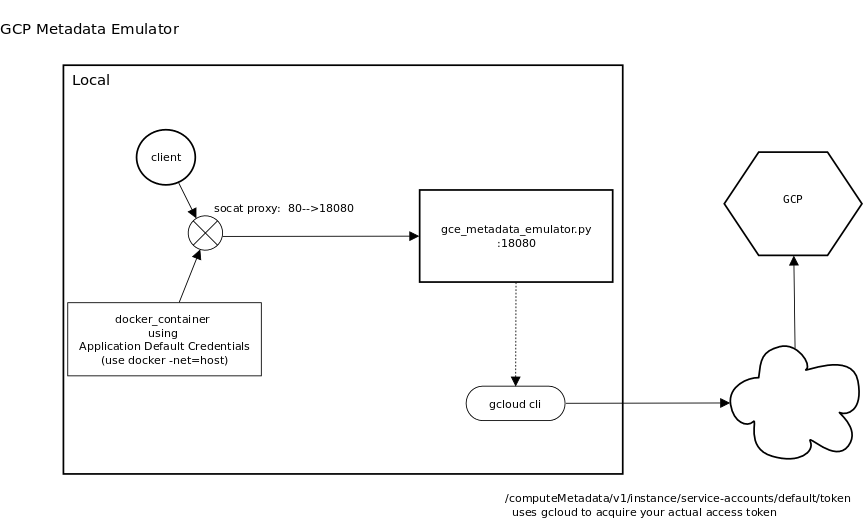
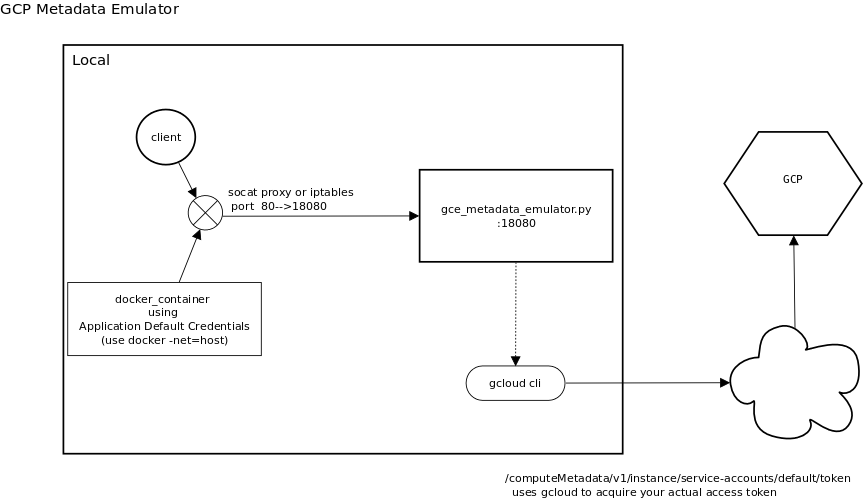
gunicorn and __getAccessTokenFromInstance()

diff --git a/gce_metadata_server.py b/gce_metadata_server.py
@@ -67,6 +67,7 @@ from time import mktime
 from datetime import datetime
 import calendar
 import urllib2
+from cStringIO import StringIO
 
 from gcloud_wrapper import GCloud
 
@@ -235,6 +236,23 @@ def __setupProjectMetadata():
         if (item['key']!='sshKeys'):
           custom_attributes[item['key']] = item['value']          
     logging.info('Enabled the following custom attributes ' + str(custom_attributes))
+
+# Optional method to acquire the access_token from an instance in your project (requires gcloud or curl installed on your GCE instance)
+# TODO: the remote ssh writes to stdout and would need to capture it.  For now, I left it as-is, unimplemented :(
+def __getAccessTokenFromInstance(instance):
+    logging.info('Getting access_token from instance ' + instance)
+
+    # if gcloud is installed remotely    
+    #token = GCloud(['--configuration', gcloud_configuraiton, 'compute','ssh', instance, 'gcloud auth print-access-token', '--format', 'json()'])
+    #logging.info('access_token: ' + str(token))
+
+    # if curl is installed remotely
+    #result = GCloud(['--configuration', gcloud_configuraiton, 'compute','ssh',instance, \
+    #  'curl -s "http://metadata.google.internal/computeMetadata/v1/instance/service-accounts/default/token" -H "Metadata-Flavor: Google"'])
+    #p = json.loads(result)
+    #token = p['access_token']
+
+    logging.info('Acquired access_token from instance ' + instance)    
 
 if __name__ == '__main__':
   app.wsgi_app = TransitMiddleWare(app.wsgi_app)

diff --git a/README.md b/README.md
@@ -46,6 +46,8 @@ sudo apt-get install socat
 ```
 sudo socat TCP4-LISTEN:80,fork TCP4:127.0.0.1:18080
 ```
+_note:_  socat is pretty much for unit testing.  For anything else, try iptables and gunicorn.
+
 or iptables
 ```
 sudo iptables -t nat -A OUTPUT -o lo -p tcp --dport 80 -j REDIRECT --to-port 18080
@@ -64,7 +66,7 @@ directly:
 ```
 python gce_metadata_server.py
 ```
-or via gunicorn
+or **preferably** via [gunicorn](http://docs.gunicorn.org/en/stable/install.html)
 ```
 gunicorn -b :18080 gce_metadata_server:app
 ```
@@ -99,13 +101,38 @@ This will allow the container to 'see' the local interface on the laptop.
 This script utilizes [gcloud_wrapper.py](gcloud_wrapper.py) which is basically a python wrapper around the actual gcloud CLI (google cloud sdk).
 What this script allows you to do is acquire gcloud's cli capabilities directly in python code automatically.
 
+
+#### Acquire remote access_token from GCE Instance
+If you require the live access_token issued by the actual metadata server on the GCE instance, you can invoke 
+```
+def __getAccessTokenFromInstance(instance):
+    logging.info('Getting access_token from instance ' + instance)
+    
+    # if gcloud is installed remotely    
+    #token = GCloud(['--configuration', gcloud_configuraiton, 'compute','ssh', instance, 'gcloud auth print-access-token', '--format', 'json()'])
+    #logging.info('access_token: ' + str(token))
+
+    # if curl is installed remotely
+    #result = GCloud(['--configuration', gcloud_configuraiton, 'compute','ssh',instance, \
+    #  'curl -s "http://metadata.google.internal/computeMetadata/v1/instance/service-accounts/default/token" -H "Metadata-Flavor: Google"'])
+    #p = json.loads(result)
+    #token = p['access_token']
+```
+
+What that section attempts to do is invoke gcloud ssh and execute a remote command.  In this case, either try to capture the remote system's gcloud access token or run 
+curl against the real metadata server.
+
+> **NOTE** This function does not work as the remote ssh commands is not returned in gcloud but echo'd to the output.  Capturing the redirect is possible but I have not
+> spent the time to account for the redirection GCloud() itself does already.
+
 #### Port mapping :80 --> :18080
-Since GCE's metadata server listens on http for :80, this script relies on utilities like 'socat' to redirect port traffic.
+Since GCE's metadata server listens on http for :80, this script relies on utilities like 'socat' to redirect port traffic.  _socat_ has pretty
+basic connection handling so you'd be better with iptables, gunicorn.
 You are free to either run the script on port :80 directly (as root), or use a utilitity like iptables, HAProxy, nginx, etc to do this mapping.
 
 iptables:
 ```
-sudo iptables -t nat -A OUTPUT -o lo -p tcp --dport 80 -j REDIRECT --to-port 8080
+sudo iptables -t nat -A OUTPUT -o lo -p tcp --dport 80 -j REDIRECT --to-port 18080
 ```
 
 #### Extending the sample
